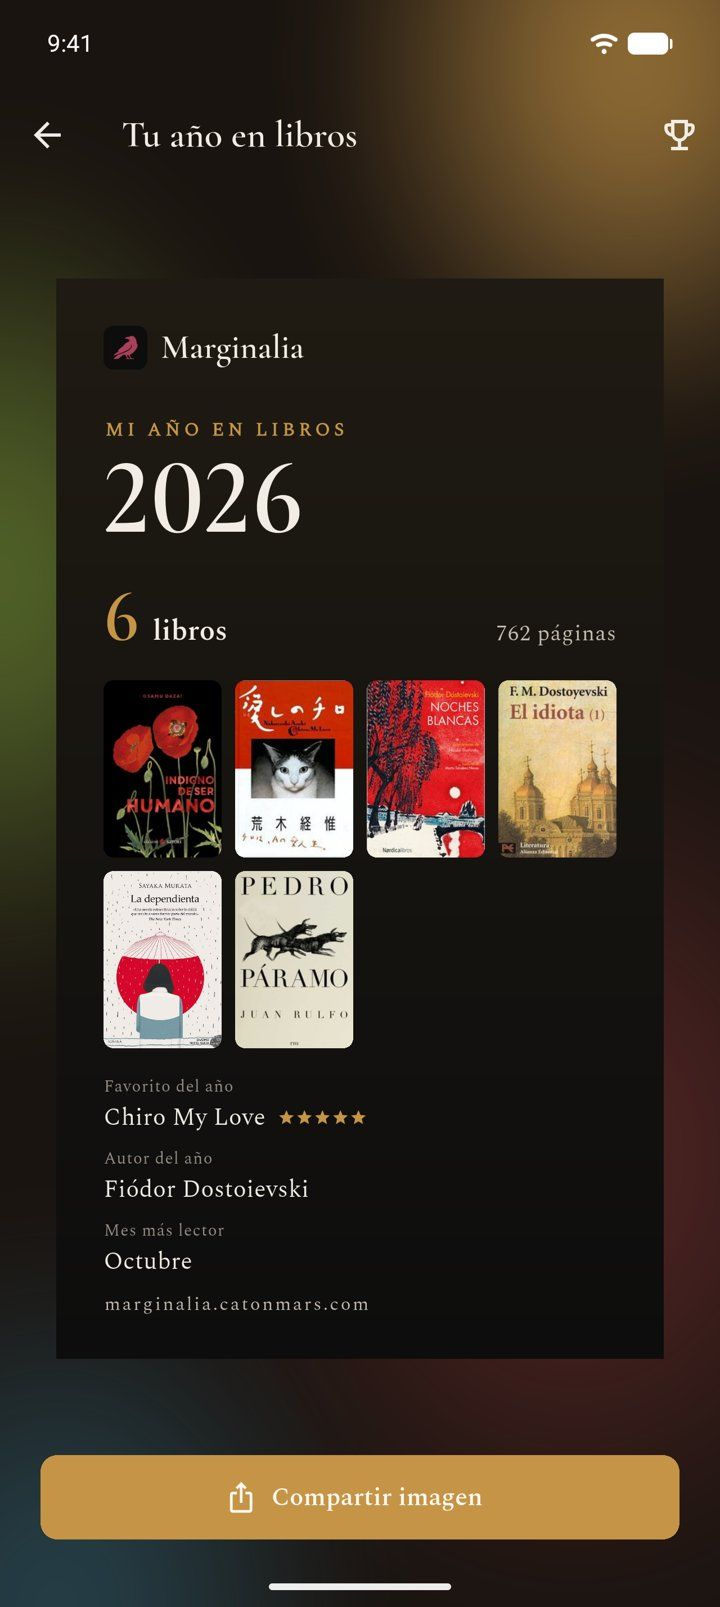
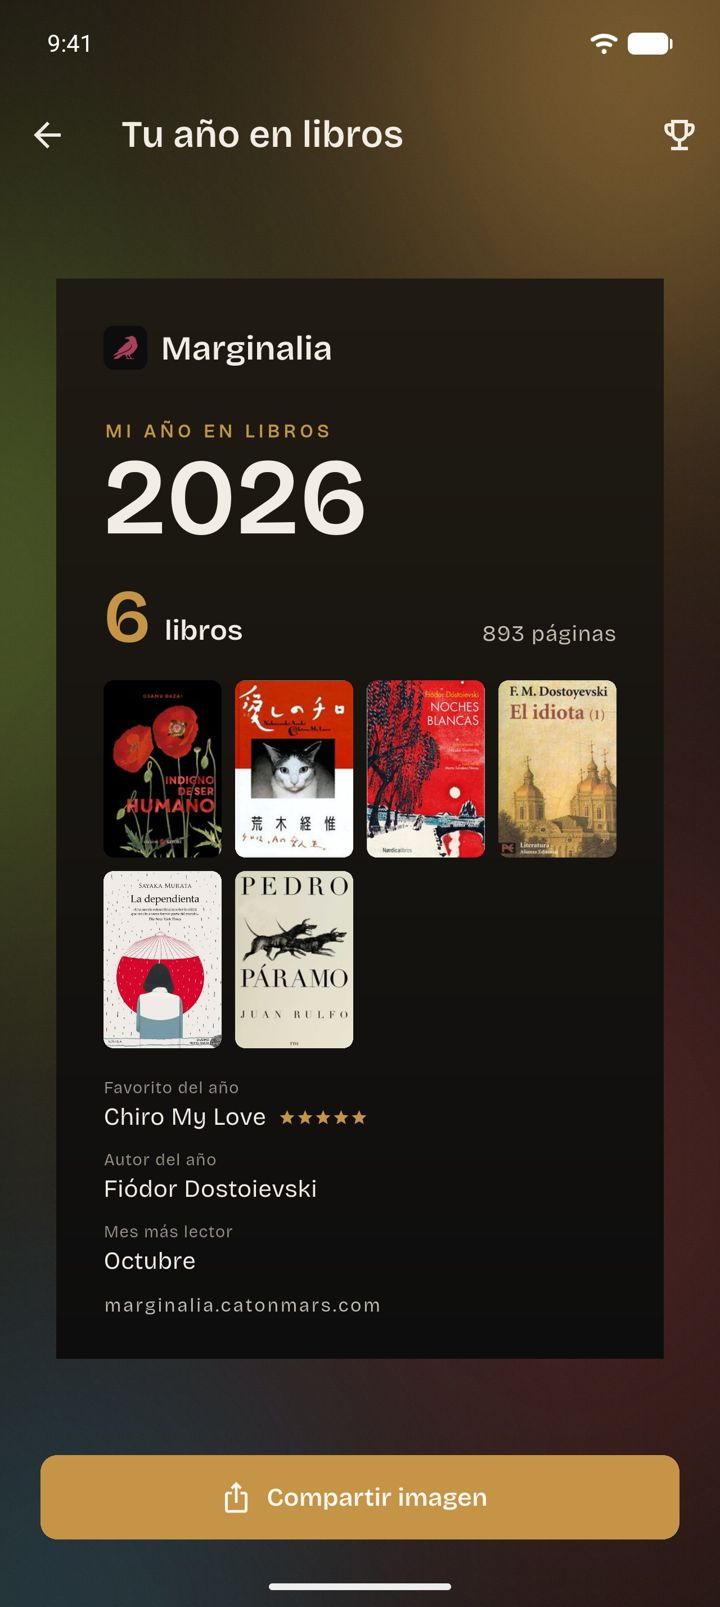
Fuente Bricolage Grotesque y capturas nuevas de la app

diff --git a/en.html b/en.html
@@ -18,7 +18,7 @@
 <link rel="apple-touch-icon" href="assets/apple-touch-icon.png">
 <link rel="preconnect" href="https://fonts.googleapis.com">
 <link rel="preconnect" href="https://fonts.gstatic.com" crossorigin>
-<link rel="stylesheet" href="https://fonts.googleapis.com/css2?family=Cormorant+Garamond:wght@500;600;700&family=Spectral:wght@400;500;600&display=swap">
+<link rel="stylesheet" href="https://fonts.googleapis.com/css2?family=Bricolage+Grotesque:opsz,wght@12..96,400..700&display=swap">
 <script>document.documentElement.classList.add('js'); document.documentElement.dataset.paleta = 'tinta';</script>
 <style>
   /* Escenario oscuro con la aurora de la app; los celulares son el protagonista y giran entre sí con el scroll. */
@@ -35,13 +35,13 @@
     --tono-1: #4a1830;
     --tono-2: #34183f;
     --tono-3: #17332a;
-    --letra: "Spectral", Georgia, serif;
-    --titulos: "Cormorant Garamond", Georgia, serif;
+    --letra: "Bricolage Grotesque", "Segoe UI", system-ui, sans-serif;
+    --titulos: "Bricolage Grotesque", "Segoe UI", system-ui, sans-serif;
     --margen: clamp(16px, 4vw, 56px);
     --ease-out: cubic-bezier(0.23, 1, 0.32, 1);
-    --t-1: clamp(48px, 7vw, 104px);
-    --t-2: clamp(36px, 4.6vw, 66px);
-    --t-3: clamp(24px, 2.3vw, 31px);
+    --t-1: clamp(44px, 6.4vw, 96px);
+    --t-2: clamp(32px, 4.2vw, 60px);
+    --t-3: clamp(21px, 2vw, 27px);
     --t-4: 18px;
     --t-5: 15px;
   }
@@ -65,7 +65,7 @@
   a { color: inherit; }
   :focus-visible { outline: 2px solid var(--vino); outline-offset: 3px; border-radius: 6px; }
   img { display: block; max-width: 100%; }
-  h1, h2, h3 { font-family: var(--titulos); font-weight: 600; letter-spacing: -.01em; line-height: 1.04; text-wrap: balance; }
+  h1, h2, h3 { font-family: var(--titulos); font-weight: 650; letter-spacing: -.03em; line-height: 1.02; text-wrap: balance; font-variation-settings: "opsz" 96; }
   .envoltura { padding-inline: var(--margen); }
 
   .aurora { position: fixed; inset: 0; z-index: 0; overflow: hidden; background: var(--fondo); }
@@ -81,8 +81,8 @@
             backdrop-filter: blur(20px) saturate(1.2); -webkit-backdrop-filter: blur(20px) saturate(1.2); }
 
   .barra { position: fixed; inset: 0 0 auto; z-index: 30; display: flex; align-items: center; gap: 28px; padding: 18px var(--margen); }
-  .barra .logo { display: flex; align-items: center; gap: 10px; font: 600 28px/1 var(--titulos); text-decoration: none; margin-right: auto; }
-  .barra .logo svg { width: 30px; height: auto; fill: var(--vino); transition: fill .4s ease; }
+  .barra .logo { display: flex; align-items: center; gap: 10px; font: 700 22px/1 var(--titulos); letter-spacing: -.02em; text-decoration: none; margin-right: auto; }
+  .barra .logo svg { width: 26px; height: auto; fill: var(--vino); transition: fill .4s ease; }
   .barra nav { display: flex; gap: 22px; font-size: 15px; color: var(--texto-2); }
   .barra nav a { text-decoration: none; transition: color .2s ease; }
   .barra nav a:hover { color: var(--texto); }
@@ -124,7 +124,7 @@
   .js-vivo .cel { transform: none; display: block; }
 
   .leyenda { position: absolute; left: 0; right: 0; bottom: 0; text-align: center; z-index: 4; }
-  .leyenda strong { display: block; font: 600 24px/1.2 var(--titulos); }
+  .leyenda strong { display: block; font: 600 20px/1.2 var(--titulos); letter-spacing: -.01em; }
   .leyenda span { display: block; color: var(--texto-2); font-size: 15px; margin-top: 2px; }
   .puntos { display: flex; justify-content: center; gap: 4px; margin-top: 10px; }
   .puntos button { width: 24px; height: 24px; border: 0; padding: 0; background: none; cursor: pointer; display: grid; place-items: center; }
@@ -218,13 +218,13 @@
   .anillo circle { fill: none; stroke-width: 8; }
   .anillo .base { stroke: rgba(255,255,255,.08); }
   .anillo .valor { stroke: var(--vino); stroke-linecap: round; transform: rotate(-90deg); transform-origin: 50% 50%; }
-  .anillo text { fill: var(--texto); font: 600 22px var(--titulos); }
-  .reto-principal b { display: block; font: 600 34px/1.1 var(--titulos); }
+  .anillo text { fill: var(--texto); font: 650 20px var(--titulos); }
+  .reto-principal b { display: block; font: 650 30px/1.1 var(--titulos); letter-spacing: -.02em; }
   .reto-principal span { font-size: 15px; color: var(--texto-2); }
   .barra-dato { display: flex; justify-content: space-between; font-size: 15px; color: var(--texto-2); margin-top: 14px; font-variant-numeric: tabular-nums; }
   .pista { height: 6px; border-radius: 9px; background: rgba(255,255,255,.08); margin-top: 6px; overflow: hidden; }
   .pista i { display: block; height: 100%; background: var(--vino); border-radius: inherit; transform-origin: left; }
-  .racha-num { font-family: var(--titulos); font-size: 72px; font-weight: 600; letter-spacing: -.01em; line-height: 1; font-variant-numeric: lining-nums proportional-nums; }
+  .racha-num { font-family: var(--titulos); font-size: 64px; font-weight: 700; letter-spacing: -.04em; line-height: 1; font-variant-numeric: lining-nums proportional-nums; }
   .racha-num small { font-size: 18px; font-weight: 500; color: var(--texto-2); letter-spacing: 0; margin-left: 6px; }
   .semana { display: grid; grid-template-columns: repeat(7, 1fr); gap: 8px; margin-top: 22px; text-align: center; font-size: 13px; color: var(--texto-2); }
   .semana i { display: block; aspect-ratio: 1; border-radius: 10px; background: rgba(255,255,255,.07); margin-top: 6px; }

diff --git a/index.html b/index.html
@@ -18,7 +18,7 @@
 <link rel="apple-touch-icon" href="assets/apple-touch-icon.png">
 <link rel="preconnect" href="https://fonts.googleapis.com">
 <link rel="preconnect" href="https://fonts.gstatic.com" crossorigin>
-<link rel="stylesheet" href="https://fonts.googleapis.com/css2?family=Cormorant+Garamond:wght@500;600;700&family=Spectral:wght@400;500;600&display=swap">
+<link rel="stylesheet" href="https://fonts.googleapis.com/css2?family=Bricolage+Grotesque:opsz,wght@12..96,400..700&display=swap">
 <script>document.documentElement.classList.add('js'); document.documentElement.dataset.paleta = 'tinta';</script>
 <style>
   /* Escenario oscuro con la aurora de la app; los celulares son el protagonista y giran entre sí con el scroll. */
@@ -35,13 +35,13 @@
     --tono-1: #4a1830;
     --tono-2: #34183f;
     --tono-3: #17332a;
-    --letra: "Spectral", Georgia, serif;
-    --titulos: "Cormorant Garamond", Georgia, serif;
+    --letra: "Bricolage Grotesque", "Segoe UI", system-ui, sans-serif;
+    --titulos: "Bricolage Grotesque", "Segoe UI", system-ui, sans-serif;
     --margen: clamp(16px, 4vw, 56px);
     --ease-out: cubic-bezier(0.23, 1, 0.32, 1);
-    --t-1: clamp(48px, 7vw, 104px);
-    --t-2: clamp(36px, 4.6vw, 66px);
-    --t-3: clamp(24px, 2.3vw, 31px);
+    --t-1: clamp(44px, 6.4vw, 96px);
+    --t-2: clamp(32px, 4.2vw, 60px);
+    --t-3: clamp(21px, 2vw, 27px);
     --t-4: 18px;
     --t-5: 15px;
   }
@@ -65,7 +65,7 @@
   a { color: inherit; }
   :focus-visible { outline: 2px solid var(--vino); outline-offset: 3px; border-radius: 6px; }
   img { display: block; max-width: 100%; }
-  h1, h2, h3 { font-family: var(--titulos); font-weight: 600; letter-spacing: -.01em; line-height: 1.04; text-wrap: balance; }
+  h1, h2, h3 { font-family: var(--titulos); font-weight: 650; letter-spacing: -.03em; line-height: 1.02; text-wrap: balance; font-variation-settings: "opsz" 96; }
   .envoltura { padding-inline: var(--margen); }
 
   .aurora { position: fixed; inset: 0; z-index: 0; overflow: hidden; background: var(--fondo); }
@@ -81,8 +81,8 @@
             backdrop-filter: blur(20px) saturate(1.2); -webkit-backdrop-filter: blur(20px) saturate(1.2); }
 
   .barra { position: fixed; inset: 0 0 auto; z-index: 30; display: flex; align-items: center; gap: 28px; padding: 18px var(--margen); }
-  .barra .logo { display: flex; align-items: center; gap: 10px; font: 600 28px/1 var(--titulos); text-decoration: none; margin-right: auto; }
-  .barra .logo svg { width: 30px; height: auto; fill: var(--vino); transition: fill .4s ease; }
+  .barra .logo { display: flex; align-items: center; gap: 10px; font: 700 22px/1 var(--titulos); letter-spacing: -.02em; text-decoration: none; margin-right: auto; }
+  .barra .logo svg { width: 26px; height: auto; fill: var(--vino); transition: fill .4s ease; }
   .barra nav { display: flex; gap: 22px; font-size: 15px; color: var(--texto-2); }
   .barra nav a { text-decoration: none; transition: color .2s ease; }
   .barra nav a:hover { color: var(--texto); }
@@ -124,7 +124,7 @@
   .js-vivo .cel { transform: none; display: block; }
 
   .leyenda { position: absolute; left: 0; right: 0; bottom: 0; text-align: center; z-index: 4; }
-  .leyenda strong { display: block; font: 600 24px/1.2 var(--titulos); }
+  .leyenda strong { display: block; font: 600 20px/1.2 var(--titulos); letter-spacing: -.01em; }
   .leyenda span { display: block; color: var(--texto-2); font-size: 15px; margin-top: 2px; }
   .puntos { display: flex; justify-content: center; gap: 4px; margin-top: 10px; }
   .puntos button { width: 24px; height: 24px; border: 0; padding: 0; background: none; cursor: pointer; display: grid; place-items: center; }
@@ -218,13 +218,13 @@
   .anillo circle { fill: none; stroke-width: 8; }
   .anillo .base { stroke: rgba(255,255,255,.08); }
   .anillo .valor { stroke: var(--vino); stroke-linecap: round; transform: rotate(-90deg); transform-origin: 50% 50%; }
-  .anillo text { fill: var(--texto); font: 600 22px var(--titulos); }
-  .reto-principal b { display: block; font: 600 34px/1.1 var(--titulos); }
+  .anillo text { fill: var(--texto); font: 650 20px var(--titulos); }
+  .reto-principal b { display: block; font: 650 30px/1.1 var(--titulos); letter-spacing: -.02em; }
   .reto-principal span { font-size: 15px; color: var(--texto-2); }
   .barra-dato { display: flex; justify-content: space-between; font-size: 15px; color: var(--texto-2); margin-top: 14px; font-variant-numeric: tabular-nums; }
   .pista { height: 6px; border-radius: 9px; background: rgba(255,255,255,.08); margin-top: 6px; overflow: hidden; }
   .pista i { display: block; height: 100%; background: var(--vino); border-radius: inherit; transform-origin: left; }
-  .racha-num { font-family: var(--titulos); font-size: 72px; font-weight: 600; letter-spacing: -.01em; line-height: 1; font-variant-numeric: lining-nums proportional-nums; }
+  .racha-num { font-family: var(--titulos); font-size: 64px; font-weight: 700; letter-spacing: -.04em; line-height: 1; font-variant-numeric: lining-nums proportional-nums; }
   .racha-num small { font-size: 18px; font-weight: 500; color: var(--texto-2); letter-spacing: 0; margin-left: 6px; }
   .semana { display: grid; grid-template-columns: repeat(7, 1fr); gap: 8px; margin-top: 22px; text-align: center; font-size: 13px; color: var(--texto-2); }
   .semana i { display: block; aspect-ratio: 1; border-radius: 10px; background: rgba(255,255,255,.07); margin-top: 6px; }
